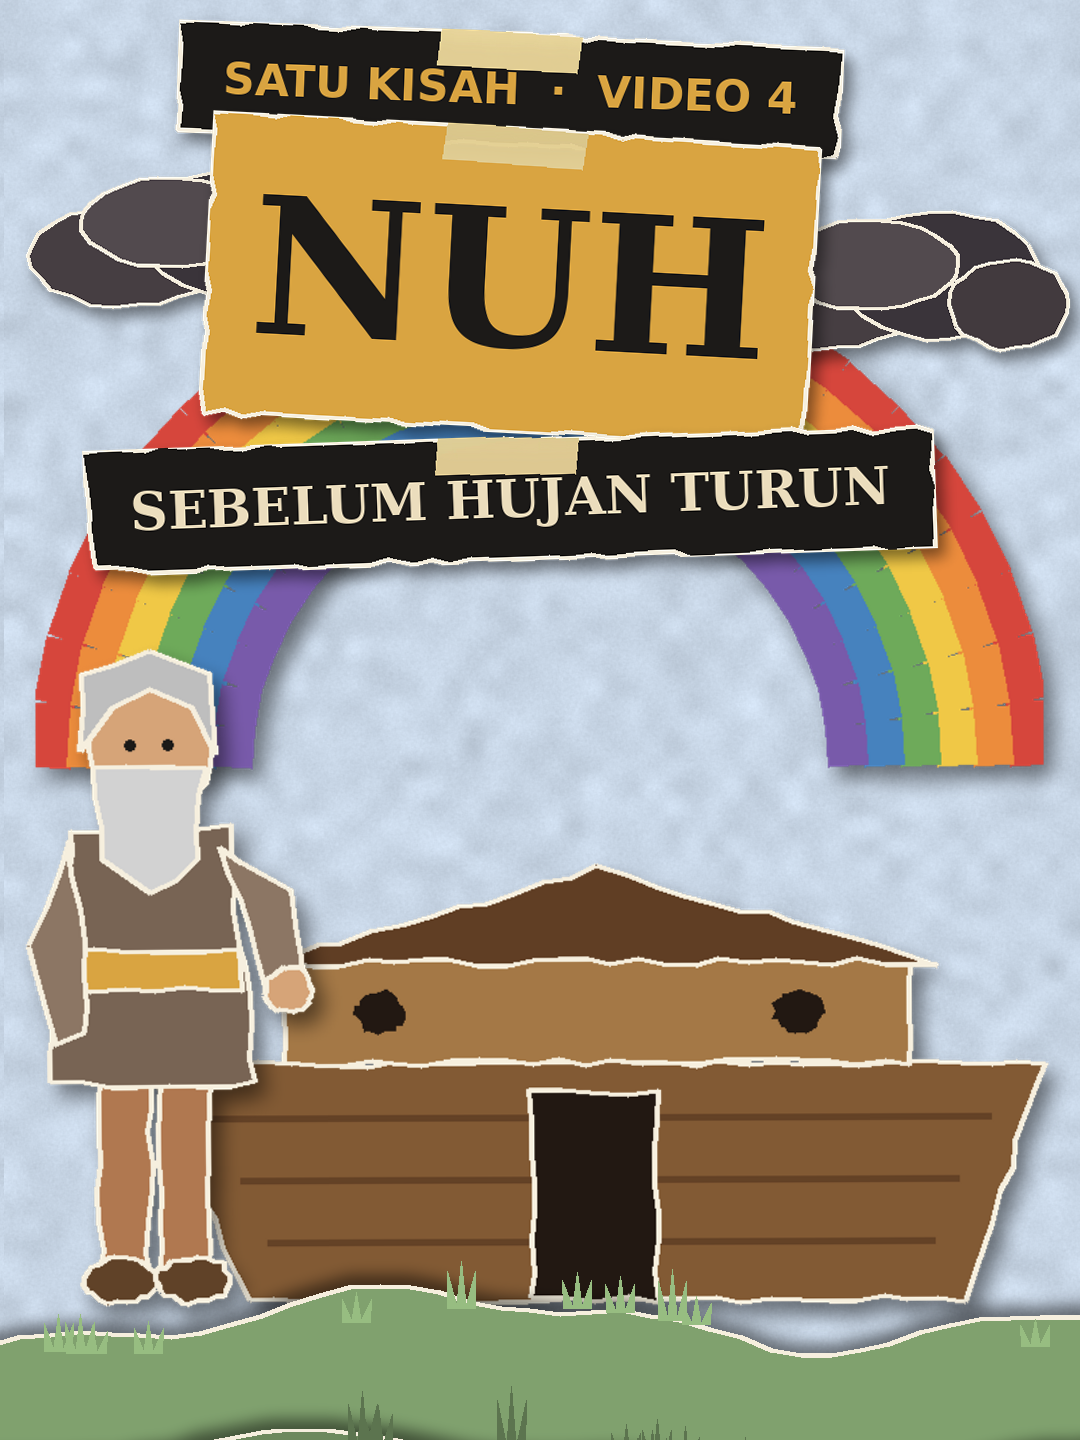
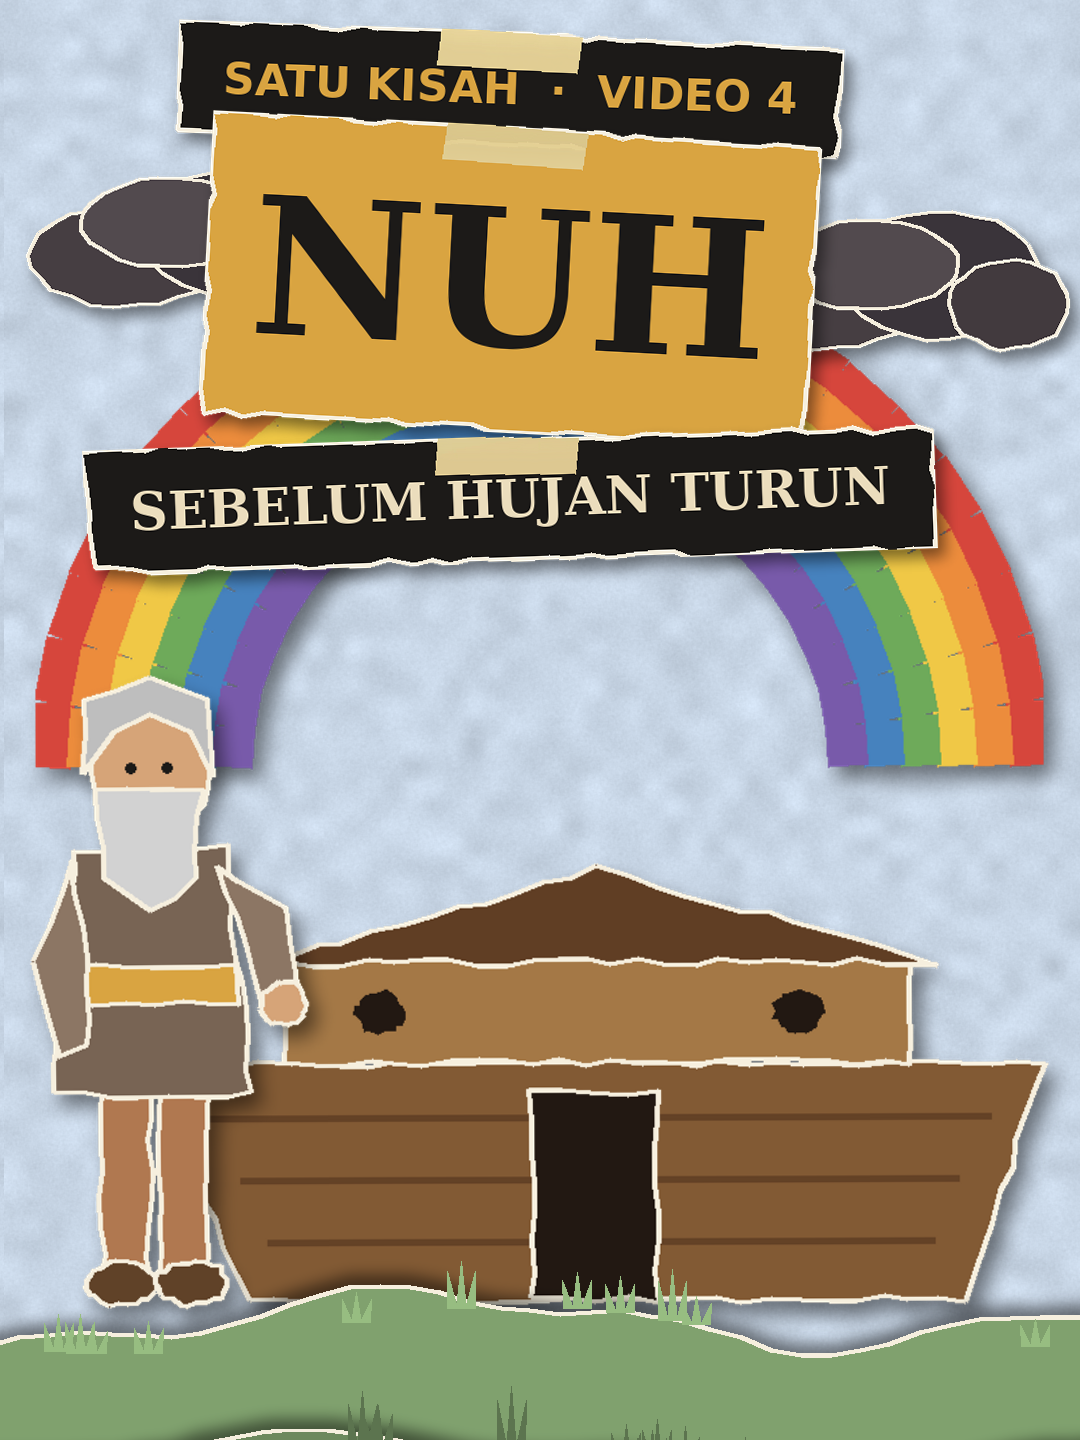
Thumbnail 9:16: batasi tinggi tokoh agar wajah tidak tertutup label (Video 1-10)
Claude-Session: https://claude.ai/code/session_016quGno62uAjQKHT4bAYPTR

Changed region(s): [[0.0306, 0.4375, 0.3056, 0.9062]]

diff --git a/skills/tokoh-alkitab-video/scripts/storykit.py b/skills/tokoh-alkitab-video/scripts/storykit.py
@@ -1318,6 +1318,8 @@ def thumbnail(spec):
     for L in th["layers"]:
         if L["type"] == "label":
             L.setdefault("zone", "thumb")
+        elif L["type"] == "actor" and L.get("sprite") == "person" and not LAND and L.get("scale", 1.0) > 1.3:
+            L["scale"] = 1.3   # tokoh besar menutupi wajah oleh label; batasi tinggi supaya kepala berada di bawah teks
     return draw_scene(spec, {"bg": th.get("bg", (140, 44, 36)), "layers": th["layers"], "foreground": th.get("foreground")}, 99.0, 3)
 
 
